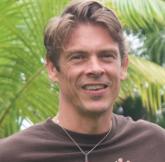
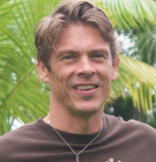
fix workshop

diff --git a/workshops.html b/workshops.html
@@ -122,10 +122,10 @@ footer .foot-brand { font-size: 1.05rem; font-weight: 700; color: #fff; margin-b
   <div class="menu-grid">
     <button class="menu-btn" data-slot="morning" data-panel="s1" onclick="showSession(this,'s1')">W1: Psi &amp; Consciousness <span class="btn-time">Morning 8:30&ndash;12:30</span></button>
     <button class="menu-btn" data-slot="morning" data-panel="s2" onclick="showSession(this,'s2')">W2: Quantum Biology <span class="btn-time">Morning 9:00&ndash;12:30</span></button>
-    <button class="menu-btn" data-slot="morning" data-panel="s5" onclick="showSession(this,'s5')">W4: NDEs &amp; OBEs <span class="btn-time">Morning 8:30&ndash;12:30</span></button>
-    <button class="menu-btn" data-slot="morning" data-panel="s7" onclick="showSession(this,'s7')">W6: Psychedelics <span class="btn-time">Morning 8:30&ndash;12:30</span></button>
     <button class="menu-btn" data-slot="afternoon" data-panel="s4" onclick="showSession(this,'s4')">W3: Brain EM Field <span class="btn-time">Afternoon 2:00&ndash;4:00</span></button>
+    <button class="menu-btn" data-slot="morning" data-panel="s5" onclick="showSession(this,'s5')">W4: NDEs &amp; OBEs <span class="btn-time">Morning 8:30&ndash;12:30</span></button>
     <button class="menu-btn" data-slot="afternoon" data-panel="s6" onclick="showSession(this,'s6')">W5: Non-Human Consciousness <span class="btn-time">Evening 7:00&ndash;9:00</span></button>
+    <button class="menu-btn" data-slot="morning" data-panel="s7" onclick="showSession(this,'s7')">W6: Psychedelics <span class="btn-time">Morning 8:30&ndash;12:30</span></button>
     <button class="menu-btn" data-slot="afternoon" data-panel="s8" onclick="showSession(this,'s8')">W7: Extraocular Perception <span class="btn-time">Afternoon 2:00&ndash;4:00</span></button>
   </div>
 </div>
@@ -153,15 +153,18 @@ footer .foot-brand { font-size: 1.05rem; font-weight: 700; color: #fff; margin-b
 </div>
 
 <div class="session-panel" data-slot="afternoon" id="s4">
-  <h3>W3: Brain Electromagnetic Field Generation and Information Processing</h3>
+  <h3>W3: Brain Electromagnetic Field Generation, Computation and Information Processing</h3>
   <div class="ws-meta">Sunday afternoon &middot; 2:00 pm &ndash; 4:00 pm &middot; Chair: Bruce MacIver</div>
   <div class="spk-grid">
     <div class="spk"><img class="av" src="img/bruce-maciver.png" alt="Bruce MacIver"><span class="nm">Bruce MacIver <em>(Chair)</em></span></div>
+    <div class="spk"><img class="av" src="img/jonathan-schooler.png" alt="Jonathan Schooler"><span class="nm">Jonathan Schooler</span></div>
     <div class="spk"><img class="av" src="img/tam-hunt.png" alt="Tam Hunt"><span class="nm">Tam Hunt</span></div>
-    <div class="spk"><div class="ini">+</div><span class="nm">More speakers coming soon</span></div>
   </div>
-  <p style="font-size:.92rem;color:#555;margin:.2rem 0 .9rem;">Electromagnetic field (EMF) theories propose that consciousness arises from the dynamic electromagnetic field generated by the brain&rsquo;s neuronal currents &mdash; the activity reflected in the EEG. Building on evidence that the brain&rsquo;s strongest field activity is directed inward toward its central regions, the workshop examines how these fields integrate neural activity, why external shielding leaves consciousness unaffected while deep-brain stimulation alters it, and what this implies for the binding and &ldquo;hard&rdquo; problems of consciousness. (See MacIver, <a href="https://www.frontiersin.org/journals/human-neuroscience/articles/10.3389/fnhum.2022.1032339/full" target="_blank" rel="noopener">Consciousness and inward electromagnetic field interactions</a>.)</p>
-  <p style="font-size:.92rem;color:#555;margin:.2rem 0 .9rem;"><strong>More details and additional speakers coming soon.</strong></p>
+  <p style="font-size:.92rem;color:#555;margin:.2rem 0 .9rem;">Electromagnetic field (EMF) theories of consciousness have been proposed to explain brain function for over seventy years. Interest in the theory continues because it explains mind&ndash;brain integration and offers a simple solution to the &ldquo;binding problem&rdquo; of our unified conscious experience &mdash; thereby addressing the &ldquo;hard problem&rdquo; of consciousness. EM fields are easily measured, and many correlates of field activity have been noted, associated with loss and recovery of consciousness, sensory perception, and behavior. This workshop brings together leading proponents of the EMF theory of consciousness to discuss how the brain generates EM fields, how these fields control neuronal activity via ephaptic interactions throughout the brain, and how field matrix computing can bring about information integration. Ample time is reserved for audience participation and speaker interactions &mdash; including discussion of theoretical and empirical support for the EMF&rsquo;s role in consciousness, the self, the mind, mind&ndash;brain duality, and parapsychological possibilities such as telepathy and cosmic consciousness.</p>
+  <p style="font-size:.92rem;color:#555;margin:.2rem 0 .6rem;"><strong>Presenters:</strong></p>
+  <p style="font-size:.92rem;color:#555;margin:0 0 .9rem;"><strong>Jonathan W. Schooler, PhD</strong> &mdash; <em>Background and history of EMF theories of consciousness.</em> Schooler is a Distinguished Professor of Psychological and Brain Sciences at the University of California Santa Barbara, Director of UCSB&rsquo;s Center for Mindfulness and Human Potential, and Director of the Sage Center for the Study of the Mind. His research intersects philosophy and psychology, including the relationship between mindfulness and mind-wandering and theories of consciousness. A former holder of a Tier 1 Canada Research Chair, his research has been featured on <em>Closer to Truth</em>, BBC <em>Horizon</em>, and <em>Through the Wormhole</em> with Morgan Freeman. With over 270 scholarly publications and over 50,000 citations, he is a six-time recipient of the Clarivate Web of Science Highly Cited Researcher Award and is ranked among the top 100 cognitive psychologists by ScholarGPS and AcademicInfluence.</p>
+  <p style="font-size:.92rem;color:#555;margin:0 0 .9rem;"><strong>M. Bruce MacIver, MSc, PhD</strong> &mdash; <em>Experimental evidence showing how EMFs are generated by neurons and how the fields influence neuronal discharge.</em> MacIver is a Professor Emeritus of neurophysiology at Stanford University, where he directs the <a href="https://web.stanford.edu/group/maciverlab/" target="_blank" rel="noopener">Neuropharmacology Lab</a>. He holds the 2004 Cox Medal from Stanford University and the 2017 Elemer Zsigmond Award from the International Society for Anaesthetic Pharmacology. He is interested in ways to measure consciousness as well as theories of consciousness, especially the electromagnetic field theory that our mind &mdash; and hence consciousness &mdash; resides in the ever-changing cloud of energy generated by our brains, which in turn influences our neural circuitry through ephaptic feedback. MacIver is a leading researcher developing new ways to visualize this energy cloud using non-linear dynamic analyses of EEG/MEG recordings.</p>
+  <p style="font-size:.92rem;color:#555;margin:0 0 .9rem;"><strong>Tam Hunt</strong> &mdash; <em>Neuronal synchronization and rhythms that amplify and integrate EMF activity.</em> Hunt is a scholar at UC Santa Barbara&rsquo;s METALAB, where he studies consciousness and the philosophy of mind. He has been lead guest editor for two Frontiers in Human Neuroscience research topics, including &ldquo;EM field theories of consciousness: Opportunities and obstacles&rdquo; and &ldquo;Mapping the resonome.&rdquo; He is lead developer, with Jonathan Schooler, of the <a href="https://www.frontiersin.org/journals/human-neuroscience/articles/10.3389/fnhum.2019.00378/full" target="_blank" rel="noopener">General Resonance Theory</a> of consciousness, a public policy lawyer specializing in green energy and AI safety, and host of the Diamond Mind podcast. His website is <a href="http://tam-hunt.com/" target="_blank" rel="noopener">tam-hunt.com</a>.</p>
 </div>
 
 <div class="session-panel" data-slot="morning" id="s1">
